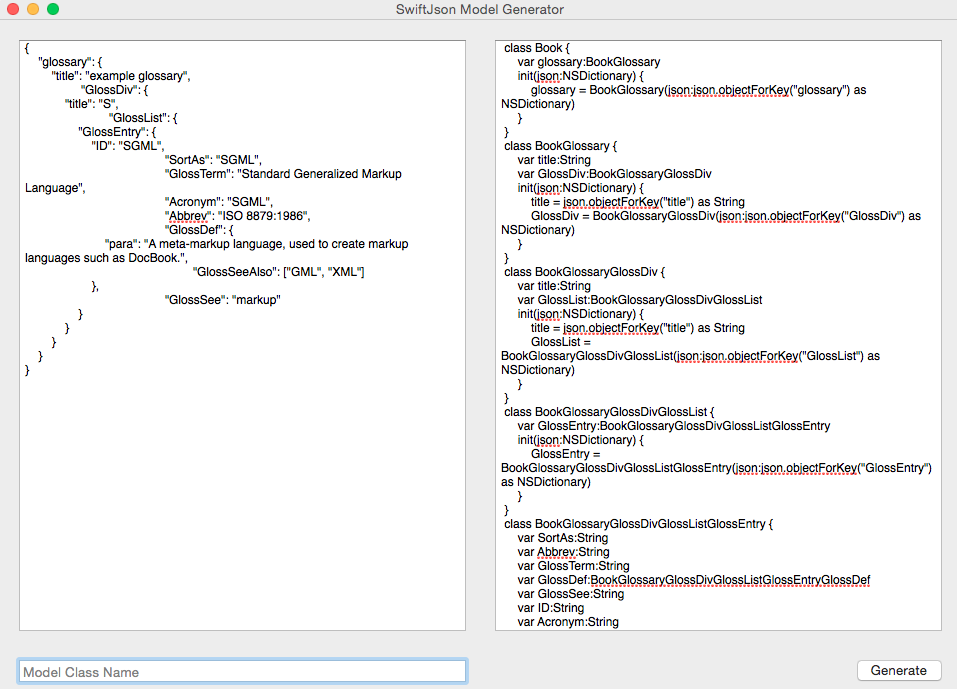
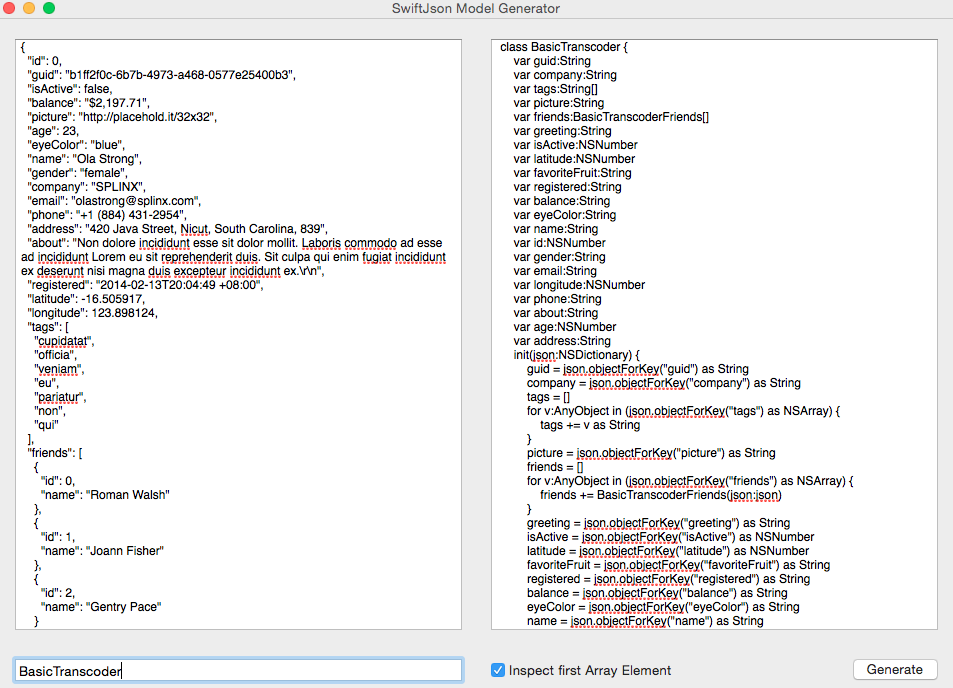
readme and new screenshot

diff --git a/README.md b/README.md
@@ -1,2 +1,4 @@
 SwiftJson is an OS X application that will generate Class Models in Swift from a provided JSON file.<br />
 ![Screenshot](./screenshot.png)
+<br />
+Selecting 'Inspect First Array Element' will attempt to make a more informed cast than AnyObject by using the first element of an array.  If any array's in a model contain mixed types, this box should be unchecked.
